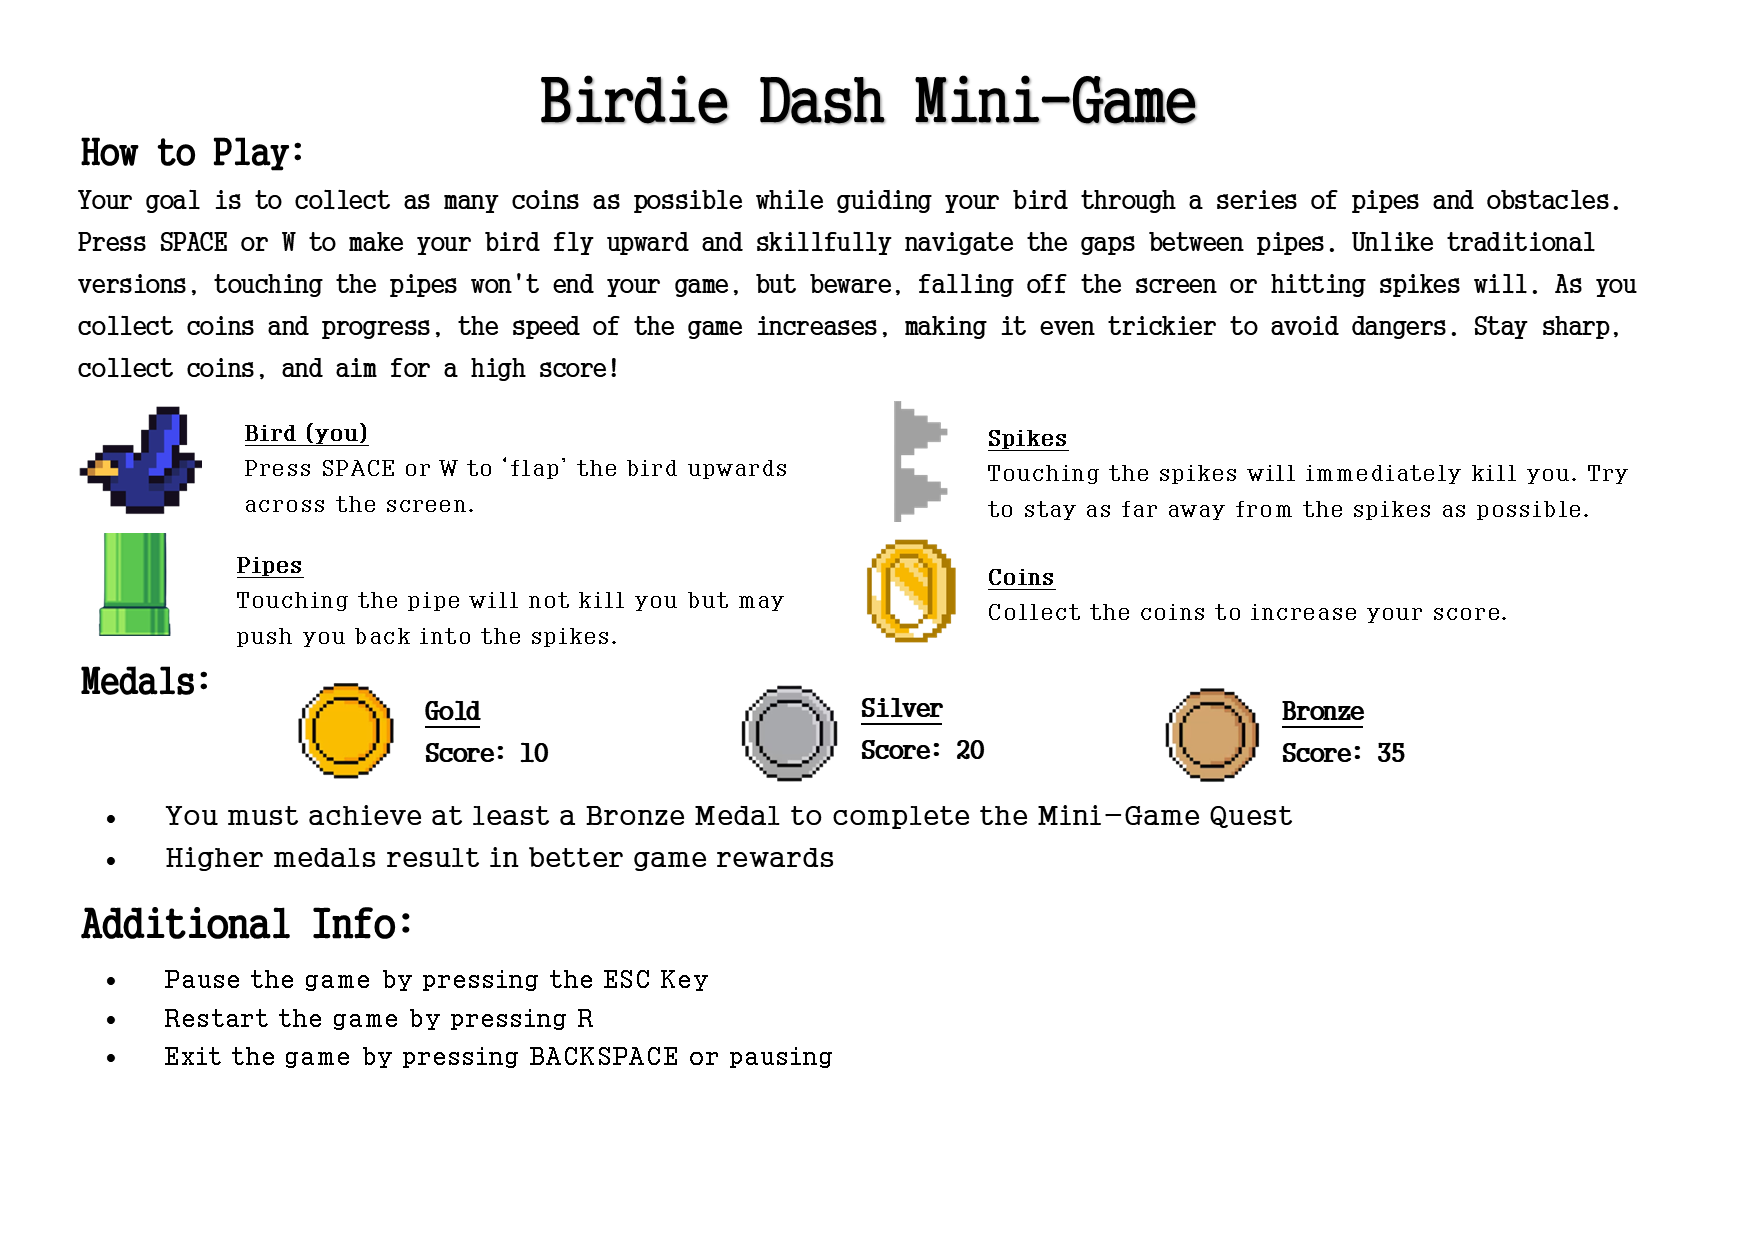
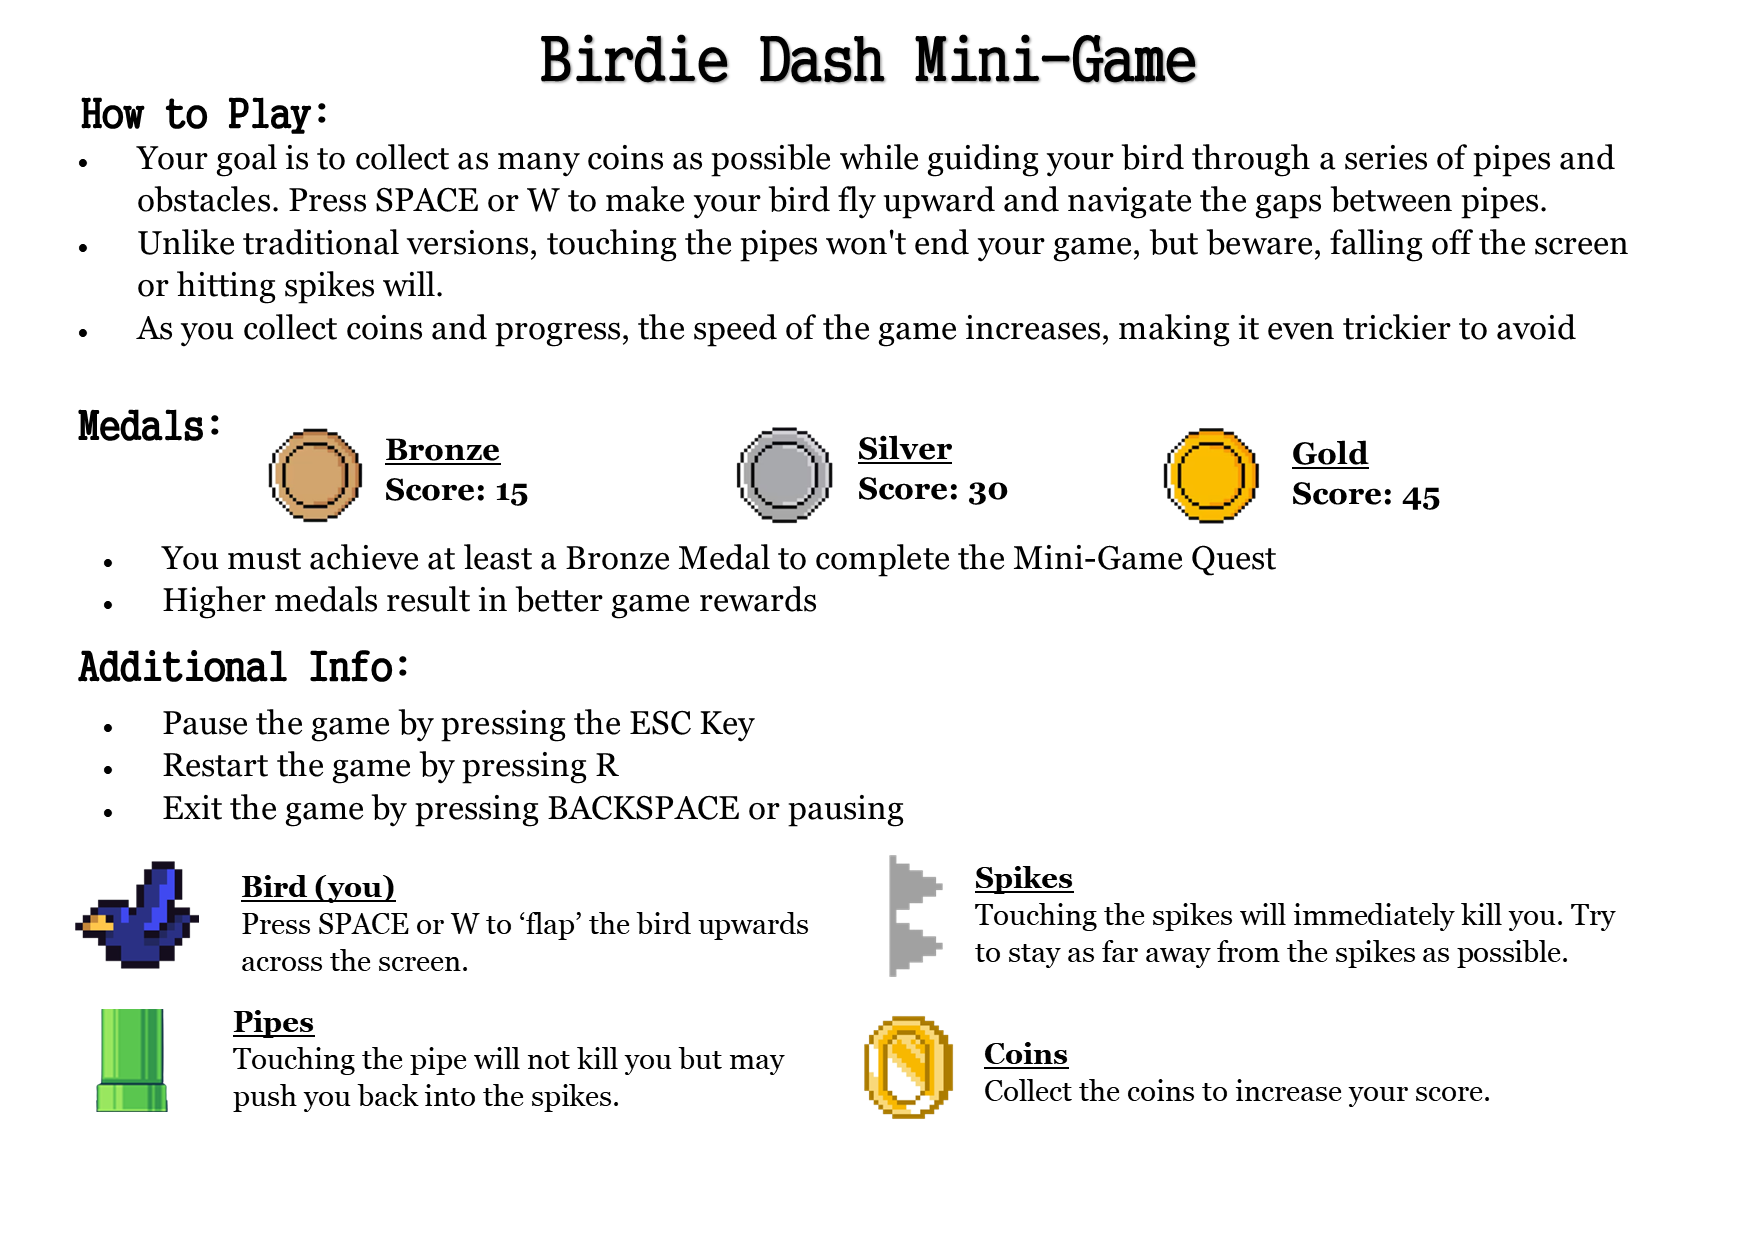
Pop up images updated and fully implemented

Changed region(s): [[0.0308, 0.0306, 0.9236, 0.9194], [0.862, 0.3984, 0.8928, 0.429]]

diff --git a/source/core/src/main/com/csse3200/game/screens/BirdieDashScreen.java b/source/core/src/main/com/csse3200/game/screens/BirdieDashScreen.java
@@ -53,7 +53,7 @@ public class BirdieDashScreen extends PausableScreen {
     private final BirdieDashGame birdGame;
     private final ScoreBoard scoreBoard;
     private TextButton helpButton;
-    private final SnakePopup snakePopup;
+    private final SnakePopup birdPopup;
     private final Screen oldScreen;
     private final ServiceContainer oldScreenServices;
     private final Entity ui;
@@ -62,7 +62,7 @@ public class BirdieDashScreen extends PausableScreen {
         super(game);
         this.scale = 1;
         this.oldScreen = screen;
-        this.snakePopup = new SnakePopup(this, "images/minigames/BirdieDashPopUp.jpg");
+        this.birdPopup = new SnakePopup(this, "images/minigames/BirdieDashPopUp.png");
         this.oldScreenServices = container;
         this.birdGame = new BirdieDashGame();
         this.skin = new Skin(Gdx.files.internal("flat-earth/skin/flat-earth-ui.json"));
@@ -100,10 +100,14 @@ public class BirdieDashScreen extends PausableScreen {
             public void run() {
                 game.initializeServices();
                 addSnakePopupOverlay("images/minigames/BirdieDashPopUp.jpg");
-                snakePopup.show();
+                birdPopup.show();
             }
         }, 0.01f);
     }
+
+    /**
+     * Makes a help button for Mini-game Pop up
+     */
     private void createHelpButton() {
         // Create the help button
         helpButton = new TextButton("Help", skin);
@@ -113,13 +117,14 @@ public class BirdieDashScreen extends PausableScreen {
             public void clicked(InputEvent event, float x, float y) {
                 // Call the function to add the Snake popup overlay
                 addSnakePopupOverlay("images/minigames/BirdieDashPopUp.png");
-                snakePopup.show();
+                birdPopup.show();
             }
         });
 
         helpButton.setPosition(10 * scale, Gdx.graphics.getHeight() - helpButton.getHeight() - 10 * scale);
         stage.addActor(helpButton);
     }
+
     /**
      * Renders the game
      * @param delta The time in seconds since the last render.
@@ -139,7 +144,7 @@ public class BirdieDashScreen extends PausableScreen {
         scoreBoard.updateScore(birdGame.getScore());
         stage.act(delta);   // Update the stage
         stage.draw();       // Draw the UI (pause overlay)
-        snakePopup.render();
+        birdPopup.render();
     }
 
     /**

diff --git a/source/core/src/main/com/csse3200/game/screens/MazeGameScreen.java b/source/core/src/main/com/csse3200/game/screens/MazeGameScreen.java
@@ -70,7 +70,7 @@ public class MazeGameScreen extends PausableScreen {
     private final Stage stage;
     private final Skin skin;
     private TextButton helpButton;
-    private SnakePopup snakePopup;
+    private SnakePopup mazePopup;
 
     // Scale for resizing the screen
     private float scale;
@@ -82,7 +82,7 @@ public class MazeGameScreen extends PausableScreen {
     public MazeGameScreen(GdxGame game, Screen screen, ServiceContainer container) {
         super(game);
         this.oldScreen = screen;
-        this.snakePopup = new SnakePopup(this, "images/minigames/MazePopUp.png");
+        this.mazePopup = new SnakePopup(this, "images/minigames/MazePopUp.png");
         this.oldScreenServices = container;
         this.scale = 1;
 
@@ -124,7 +124,7 @@ public class MazeGameScreen extends PausableScreen {
         loadAssets();
         createUI();
         createHelpButton();
-        // setupExitButton();
+//        setupExitButton();
 
         logger.debug("Initialising maze game screen entities");
         MazeTerrainFactory terrainFactory = new MazeTerrainFactory(camComponent);
@@ -153,7 +153,7 @@ public class MazeGameScreen extends PausableScreen {
         if (Gdx.input.isKeyJustPressed(Input.Keys.R)) {  // Restart game
             restartGame();
         }
-        snakePopup.render();
+        mazePopup.render();
     }
 
     private void createHelpButton() {
@@ -164,8 +164,8 @@ public class MazeGameScreen extends PausableScreen {
             @Override
             public void clicked(InputEvent event, float x, float y) {
                 // Call the function to add the Snake popup overlay
-                addSnakePopupOverlay("images/minigames/MazePopUp.jpg");
-                snakePopup.show();
+                addSnakePopupOverlay("images/minigames/MazePopUp.png");
+                mazePopup.show();
             }
         });
 
@@ -176,7 +176,7 @@ public class MazeGameScreen extends PausableScreen {
             public void run() {
                 game.initializeServices();
                 addSnakePopupOverlay("images/minigames/MazePopUp.jpg");
-                snakePopup.show();
+                mazePopup.show();
             }
         }, 0.01f);
     }

diff --git a/source/core/src/main/com/csse3200/game/screens/SnakeScreen.java b/source/core/src/main/com/csse3200/game/screens/SnakeScreen.java
@@ -76,7 +76,7 @@ public class SnakeScreen extends PausableScreen {
         this.oldScreen = screen;
         this.oldScreenServices = container;
         this.ui = new Entity();
-        this.snakePopup = new SnakePopup(this, "images/minigames/snakePopUp.jpg");
+        this.snakePopup = new SnakePopup(this, "images/minigames/snakePopUp.png");
         this.backgroundTexture = new  Texture(Gdx.files.internal("images/minigames/Background.png"));
 
         this.spriteBatch = new SpriteBatch();
@@ -116,7 +116,7 @@ public class SnakeScreen extends PausableScreen {
             @Override
             public void run() {
                 game.initializeServices();
-                addSnakePopupOverlay("images/minigames/SnakePopup.jpg");
+                addSnakePopupOverlay("images/minigames/SnakePopUp.png");
                 snakePopup.show();
             }
         }, 0.01f);
@@ -130,7 +130,7 @@ public class SnakeScreen extends PausableScreen {
             @Override
             public void clicked(InputEvent event, float x, float y) {
                 // Call the function to add the Snake popup overlay
-                addSnakePopupOverlay("images/minigames/SnakePopup.jpg");
+                addSnakePopupOverlay("images/minigames/SnakePopUp.png");
                 snakePopup.show();
             }
         });
